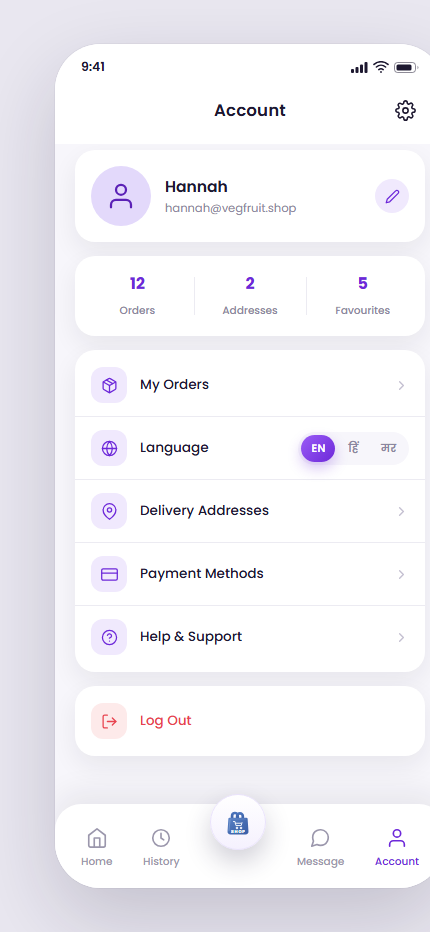
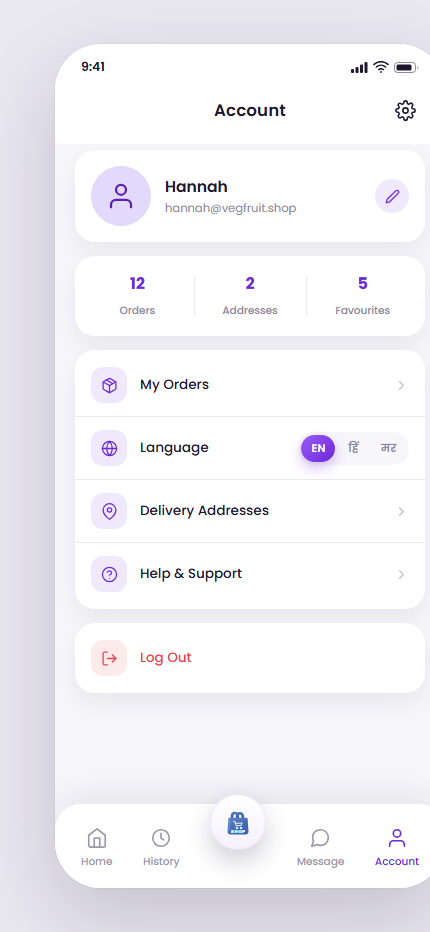
Remove UPI payment option: Cash on Delivery only (cart, account menu, admin settings)

diff --git a/templates/app.js b/templates/app.js
@@ -117,7 +117,6 @@
       paid_word: 'Paid',
       cod_word: 'Cash',
       pay_at_delivery: 'Pay on delivery',
-      pay_upi_at_door: 'Scan & pay when your order arrives',
       sec_kg: 'KG · Weight',
       sec_bunch: 'Bunch (Judi)',
       sec_gram: 'Gram',
@@ -157,12 +156,9 @@
       addr_city: 'City',
       addr_pin: 'PIN code',
       current_address: 'Current address',
-      pay_default_title: 'Payment Methods',
-      pay_upi_tag: '3% discount',
       upi_discount: 'UPI on delivery discount (3%)',
       profile_saved: 'Profile updated ✓',
       address_saved: 'Address updated ✓',
-      payment_saved: 'Default payment saved ✓',
       err_required: 'Name and email are required',
       err_signin: 'Please sign in to place your order',
       err_address: 'Choose a delivery address',
@@ -218,7 +214,6 @@
       lang_label: 'Language',
       menu_my_orders: 'My Orders',
       menu_addresses: 'Delivery Addresses',
-      menu_payments: 'Payment Methods',
       menu_help: 'Help & Support',
       menu_logout: 'Log Out',
       slot_title: 'Delivery Slot',
@@ -228,7 +223,6 @@
       pay_title: 'Payment Method',
       pay_cod: 'Cash on Delivery',
       pay_cod_sub: 'Pay when your order arrives',
-      pay_upi_sub: 'PhonePe · GPay · Paytm · 3% discount',
       cart_empty: 'Your bag is empty',
       cart_empty_sub: 'Add fresh vegetables & fruits to get started',
       browse: 'Browse products',
@@ -315,7 +309,6 @@
       paid_word: 'भुगतान हुआ',
       cod_word: 'कैश',
       pay_at_delivery: 'डिलीवरी पर भुगतान',
-      pay_upi_at_door: 'ऑर्डर आने पर स्कैन करके भुगतान करें',
       sec_kg: 'किलो · वज़न',
       sec_bunch: 'गड्डी (जुडी)',
       sec_gram: 'ग्राम',
@@ -355,12 +348,9 @@
       addr_city: 'शहर',
       addr_pin: 'पिन कोड',
       current_address: 'वर्तमान पता',
-      pay_default_title: 'भुगतान तरीके',
-      pay_upi_tag: '3% छूट',
       upi_discount: 'डिलीवरी पर UPI छूट (3%)',
       profile_saved: 'प्रोफ़ाइल अपडेट हुई ✓',
       address_saved: 'पता अपडेट हुआ ✓',
-      payment_saved: 'डिफ़ॉल्ट भुगतान सहेजा गया ✓',
       err_required: 'नाम और ईमेल आवश्यक हैं',
       err_signin: 'ऑर्डर करने के लिए लॉग इन करें',
       err_address: 'डिलीवरी पता चुनें',
@@ -416,7 +406,6 @@
       lang_label: 'भाषा',
       menu_my_orders: 'मेरे ऑर्डर',
       menu_addresses: 'डिलीवरी पते',
-      menu_payments: 'भुगतान तरीके',
       menu_help: 'सहायता और समर्थन',
       menu_logout: 'लॉग आउट',
       slot_title: 'डिलीवरी समय',
@@ -426,7 +415,6 @@
       pay_title: 'भुगतान विधि',
       pay_cod: 'कैश ऑन डिलीवरी',
       pay_cod_sub: 'ऑर्डर मिलने पर भुगतान करें',
-      pay_upi_sub: 'PhonePe · GPay · Paytm · 3% छूट',
       cart_empty: 'आपका बैग खाली है',
       cart_empty_sub: 'शुरू करने के लिए ताज़ी सब्ज़ियाँ और फल जोड़ें',
       browse: 'उत्पाद देखें',
@@ -513,7 +501,6 @@
       paid_word: 'पेमेंट झाले',
       cod_word: 'कॅश',
       pay_at_delivery: 'डिलिव्हरीवर पेमेंट',
-      pay_upi_at_door: 'ऑर्डर आल्यावर स्कॅन करून पेमेंट करा',
       sec_kg: 'किलो · वजन',
       sec_bunch: 'गड्डी (जुडी)',
       sec_gram: 'ग्राम',
@@ -553,12 +540,9 @@
       addr_city: 'शहर',
       addr_pin: 'पिन कोड',
       current_address: 'सध्याचा पत्ता',
-      pay_default_title: 'पेमेंट पद्धती',
-      pay_upi_tag: '3% सूट',
       upi_discount: 'डिलिव्हरीवर UPI सूट (3%)',
       profile_saved: 'प्रोफाइल अपडेट झाले ✓',
       address_saved: 'पत्ता अपडेट झाला ✓',
-      payment_saved: 'डीफॉल्ट पेमेंट जतन केले ✓',
       err_required: 'नाव आणि ईमेल आवश्यक आहेत',
       err_signin: 'ऑर्डर करण्यासाठी लॉग इन करा',
       err_address: 'वितरण पत्ता निवडा',
@@ -614,7 +598,6 @@
       lang_label: 'भाषा',
       menu_my_orders: 'माझ्या ऑर्डर्स',
       menu_addresses: 'वितरण पत्ते',
-      menu_payments: 'पेमेंट पद्धती',
       menu_help: 'मदत आणि समर्थन',
       menu_logout: 'लॉग आउट',
       slot_title: 'वितरण वेळ',
@@ -624,7 +607,6 @@
       pay_title: 'पेमेंट पद्धत',
       pay_cod: 'कॅश ऑन डिलिव्हरी',
       pay_cod_sub: 'ऑर्डर मिळाल्यावर पैसे द्या',
-      pay_upi_sub: 'PhonePe · GPay · Paytm · 3% सूट',
       cart_empty: 'तुमची बॅग रिकामी आहे',
       cart_empty_sub: 'सुरू करण्यासाठी ताज्या भाज्या आणि फळे जोडा',
       browse: 'उत्पादने पहा',
@@ -723,6 +705,16 @@
     });
   }
 
+  /* preview helper: ?scroll=bottom jumps the content area to the bottom */
+  try {
+    if (new URLSearchParams(window.location.search).get('scroll') === 'bottom') {
+      setTimeout(function () {
+        var c = $('.content');
+        if (c) c.scrollTop = c.scrollHeight;
+      }, 500);
+    }
+  } catch (e) { /* noop */ }
+
   /* ---------- toast ---------- */
 
   function toast(message, ms) {
@@ -762,7 +754,7 @@
 
     /* UPI orders get a 3% discount on the items subtotal */
     var payEl = $('.pay-card .addr-option.active');
-    var pay = payEl && payEl.getAttribute('data-pay') ? payEl.getAttribute('data-pay') : 'upi';
+    var pay = payEl && payEl.getAttribute('data-pay') ? payEl.getAttribute('data-pay') : 'cod';
     var discount = pay === 'upi' && subtotal > 0 ? Math.round(subtotal * 0.03 * 10) / 10 : 0;
 
     var upiRow = $('#upiRow');
@@ -1144,7 +1136,7 @@
       var slotEl = $('.slot-card .addr-option.active');
       var payEl = $('.pay-card .addr-option.active');
       var slot = slotEl && slotEl.getAttribute('data-slot') ? slotEl.getAttribute('data-slot') : 'morning';
-      var payment = payEl && payEl.getAttribute('data-pay') ? payEl.getAttribute('data-pay') : 'upi';
+      var payment = payEl && payEl.getAttribute('data-pay') ? payEl.getAttribute('data-pay') : 'cod';
 
       setPlaceBusy(true);
       toast(t('toast_checkout'), 1200);
@@ -1916,51 +1908,12 @@
       });
     }
 
-    /* payment sheet: default method (UPI gets 3% off) */
-    var btnPayment = $('#btnPayment');
-    if (btnPayment) {
-      btnPayment.addEventListener('click', function () {
-        var def = (acctUser && acctUser.default_payment) || localDefaultPay();
-        var upi = $('#payUpi');
-        var cod = $('#payCod');
-        if (upi && cod) {
-          upi.classList.toggle('active', def !== 'cod');
-          cod.classList.toggle('active', def === 'cod');
-          var ui = $('input', upi);
-          var ci = $('input', cod);
-          if (ui) ui.checked = def !== 'cod';
-          if (ci) ci.checked = def === 'cod';
-        }
-        openAcctSheet('sheetPayment');
-      });
-    }
-
-    var paySave = $('#paySave');
-    if (paySave) {
-      paySave.addEventListener('click', function () {
-        var cod = $('#payCod');
-        var pay = cod && cod.classList.contains('active') ? 'cod' : 'upi';
-        try { localStorage.setItem('taza-default-pay', pay); } catch (e) { /* noop */ }
-        if (window.TAZA && window.TAZA.token()) {
-          window.TAZA.updateMe({ default_payment: pay }).then(function (res) {
-            if (res.user) acctUser = res.user;
-            closeAcctSheets();
-            toast(t('payment_saved'));
-          }).catch(function (err) { toast((err && err.message) ? err.message : t('err_generic'), 3200); });
-          return;
-        }
-        closeAcctSheets();
-        toast(t('payment_saved'));
-      });
-    }
-
-    /* preview helper: ?sheet=profile|address|payment opens that sheet */
+    /* preview helper: ?sheet=profile|address opens that sheet */
     var sheetParam = new URLSearchParams(location.search).get('sheet');
     if (sheetParam) {
       setTimeout(function () {
         if (sheetParam === 'profile' && pencil) pencil.click();
         else if (sheetParam === 'address' && btnAddress) btnAddress.click();
-        else if (sheetParam === 'payment' && btnPayment) btnPayment.click();
       }, 300);
     }
   }

diff --git a/templates/account.html b/templates/account.html
@@ -123,19 +123,6 @@
             </span>
           </button>
 
-          <button class="menu-item" id="btnPayment">
-            <span class="m-ico" aria-hidden="true">
-              <svg viewBox="0 0 24 24" fill="none" stroke="currentColor" stroke-width="1.8" stroke-linecap="round" stroke-linejoin="round">
-                <rect x="1" y="4" width="22" height="16" rx="2" />
-                <path d="M1 10h22" />
-              </svg>
-            </span>
-            <span data-i18n="menu_payments">Payment Methods</span>
-            <span class="chev" aria-hidden="true">
-              <svg viewBox="0 0 24 24" fill="none" stroke="currentColor" stroke-width="2.2" stroke-linecap="round" stroke-linejoin="round"><path d="M9 18l6-6-6-6" /></svg>
-            </span>
-          </button>
-
           <a class="menu-item" href="messages.html">
             <span class="m-ico" aria-hidden="true">
               <svg viewBox="0 0 24 24" fill="none" stroke="currentColor" stroke-width="1.8" stroke-linecap="round" stroke-linejoin="round">
@@ -241,35 +228,6 @@
           <label class="acct-field"><span data-i18n="addr_pin">PIN code</span><input id="adPin" type="text" inputmode="numeric" maxlength="6" /></label>
         </div>
         <button class="btn-primary sheet-save" id="adSave" data-i18n="save_btn">Save</button>
-      </section>
-
-      <!-- default payment method (UPI 3% off) -->
-      <section class="order-sheet" id="sheetPayment" hidden aria-label="Payment methods">
-        <div class="sheet-head">
-          <div><h3 data-i18n="pay_default_title">Payment Methods</h3></div>
-          <button class="icon-btn acct-sheet-close" aria-label="Close">
-            <svg viewBox="0 0 24 24" fill="none" stroke="currentColor" stroke-width="2" stroke-linecap="round"><path d="M18 6 6 18M6 6l12 12" /></svg>
-          </button>
-        </div>
-        <div class="pay-options">
-          <label class="addr-option" id="payUpi" data-pay="upi">
-            <input type="radio" name="default-pay" hidden />
-            <span class="addr-radio" aria-hidden="true"></span>
-            <span class="addr-body">
-              <span class="addr-type"><span data-i18n="pay_upi">UPI on delivery</span> <em class="pay-tag" data-i18n="pay_upi_tag">3% discount</em></span>
-              <span class="addr-text" data-i18n="pay_upi_at_door">PhonePe · GPay · Paytm</span>
-            </span>
-          </label>
-          <label class="addr-option active" id="payCod" data-pay="cod">
-            <input type="radio" name="default-pay" checked hidden />
-            <span class="addr-radio" aria-hidden="true"></span>
-            <span class="addr-body">
-              <span class="addr-type" data-i18n="pay_cod">Cash on Delivery</span>
-              <span class="addr-text" data-i18n="pay_cod_sub">Pay when your order arrives</span>
-            </span>
-          </label>
-        </div>
-        <button class="btn-primary sheet-save" id="paySave" data-i18n="save_btn">Save</button>
       </section>
 
     </div>

diff --git a/admin/admin.js b/admin/admin.js
@@ -205,7 +205,7 @@
         { from: 'me', text: 'Happy to help 🌿 See you in tomorrow\'s cycle.', time: '10:05 AM' }
       ] }
     ],
-    settings: { store_name: 'TAZA-PHAL-SABZI.COM', support_phone: '+91 98200 11001', delivery_fee: 3, cutoff_hour: 22, morning_slot: 1, evening_slot: 1, upi_enabled: 1, cod_enabled: 1 }
+    settings: { store_name: 'TAZA-PHAL-SABZI.COM', support_phone: '+91 98200 11001', delivery_fee: 3, cutoff_hour: 22, morning_slot: 1, evening_slot: 1, upi_enabled: 0, cod_enabled: 1 }
   };
 
   var state = {
@@ -553,7 +553,7 @@
         '<div class="kv"><span>Order cutoff</span><b>' + settings.cutoff_hour + ':00 PM daily</b></div>' +
         '<div class="kv"><span>Daily capacity</span><b>99 orders</b></div>' +
         '<div class="kv"><span>Delivery slots</span><b>' + (settings.morning_slot ? 'Morning' : '') + (settings.morning_slot && settings.evening_slot ? ' · ' : '') + (settings.evening_slot ? 'Evening' : '') + '</b></div>' +
-        '<div class="kv"><span>Payments</span><b>' + (settings.upi_enabled ? 'UPI on delivery' : '') + (settings.upi_enabled && settings.cod_enabled ? ' · ' : '') + (settings.cod_enabled ? 'Cash (COD)' : '') + '</b></div>';
+        '<div class="kv"><span>Payments</span><b>Cash on Delivery — collected at the door</b></div>';
     }
   }
 
@@ -982,8 +982,8 @@
         delivery_fee: $('#stFee') ? parseInt($('#stFee').value, 10) : undefined,
         morning_slot: $('#stMorning') && $('#stMorning').checked ? 1 : 0,
         evening_slot: $('#stEvening') && $('#stEvening').checked ? 1 : 0,
-        upi_enabled: $('#stUpi') && $('#stUpi').checked ? 1 : 0,
-        cod_enabled: $('#stCod') && $('#stCod').checked ? 1 : 0
+        upi_enabled: 0,
+        cod_enabled: 1
       };
       if (LIVE) {
         window.TAZA.adminSaveSettings(payload).then(function () { toast('Settings saved ✓'); })

diff --git a/templates/cart.html b/templates/cart.html
@@ -162,15 +162,6 @@
             <span data-i18n="pay_title">Payment Method</span>
           </h3>
 
-          <label class="addr-option" data-pay="upi">
-            <input type="radio" name="payment" hidden />
-            <span class="addr-radio" aria-hidden="true"></span>
-            <span class="addr-body">
-              <span class="addr-type" data-i18n="pay_upi">UPI on delivery</span>
-              <span class="addr-text" data-i18n="pay_upi_sub">PhonePe · GPay · Paytm · 3% discount</span>
-            </span>
-          </label>
-
           <label class="addr-option active" data-pay="cod">
             <input type="radio" name="payment" checked hidden />
             <span class="addr-radio" aria-hidden="true"></span>

diff --git a/admin/settings.html b/admin/settings.html
@@ -57,11 +57,8 @@
             </div>
 
             <div class="field">
-              <span>Payment methods</span>
-              <div class="stack-checks">
-                <label class="check"><input type="checkbox" id="stUpi" checked /> UPI (on delivery)</label>
-                <label class="check"><input type="checkbox" id="stCod" checked /> Cash on Delivery</label>
-              </div>
+              <span>Payment</span>
+              <p class="hint">Cash on Delivery only — the customer pays cash when the order arrives at their door (no online payment).</p>
             </div>
 
             <div>

diff --git a/templates/styles.css b/templates/styles.css
@@ -923,7 +923,7 @@ input[type='search']::-webkit-search-cancel-button { display: none; }
 }
 .o-total { font-size: 15px; font-weight: 700; color: var(--green-strong); }
 
-/* payment mode chip on order cards (Paid · UPI / COD) */
+/* payment mode chip on order cards (Pay on delivery / Paid · Cash) */
 .of-left { display: flex; align-items: center; gap: 8px; min-width: 0; }
 .pay-chip {
   font-size: 9.5px;

diff --git a/BACKEND.md b/BACKEND.md
@@ -66,10 +66,11 @@ The templates are mobile-first, so everything renders full-bleed like a native a
 - **UPI discount** — orders paid by UPI get **3% off the items subtotal**
   (the delivery fee is not discounted). Saved in `orders.discount`; merging
   new items recomputes it. COD orders keep `discount = 0`.
-- **Pay on delivery** — both UPI (scan the shop QR at the door) and COD (cash)
-  are collected **on delivery**; every order starts `paid = 0` and the admin
-  marks it collected via `PATCH /api/orders/:id/paid`. **COD is the default**
-  payment method (no online gateway is wired yet).
+- **Pay on delivery** — the customer app offers **Cash on Delivery only** (paid
+  at the door; no online gateway is wired). Every order starts `paid = 0` and
+  the admin marks it collected via `PATCH /api/orders/:id/paid`. The API still
+  accepts `payment = 'upi'` for older orders (and for a future UPI-on-delivery
+  re-enable), and only UPI orders carry the 3% discount.
 - **Supplier list** — `GET /api/admin/procurement` aggregates item × qty × value
   for all live orders in the `tomorrow` cycle (the 10 PM handover list).
 - **Same-day confirm/reject** — `PATCH /api/orders/:id/status` with
